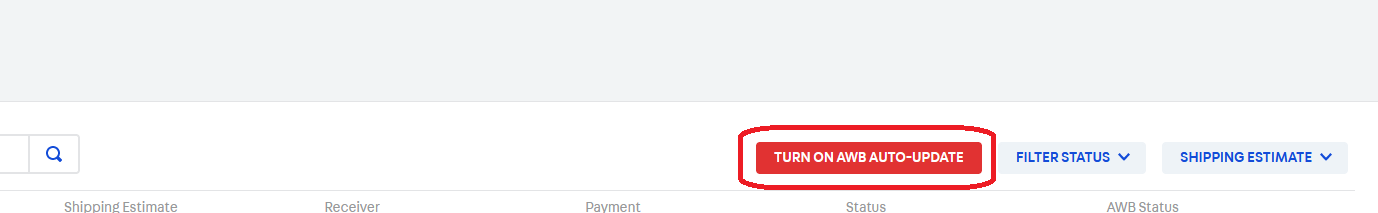
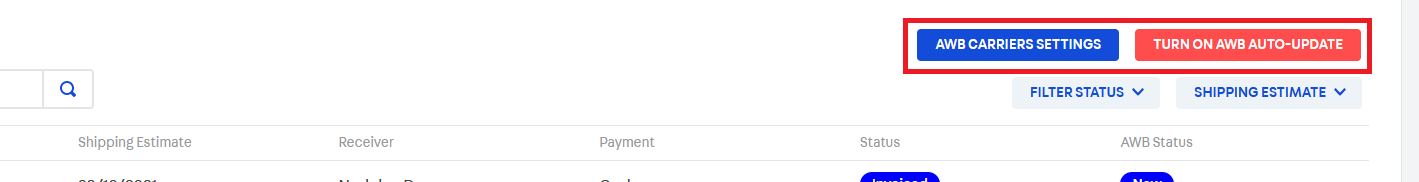
Added innoship setting page to select carriers available for automatic AWB update

diff --git a/docs/README.md b/docs/README.md
@@ -95,7 +95,8 @@ and under `Pickup points tags` select the `innoship pickup` tag.
 
 First make sure you set the correct `App Key` and `App Token` in the app setting.<br>
 Then turn on the `AWB AUTO-UPDATE` feature in the `Shipping` page.
-The update will run every 4 hours.
+The update will run every 4 hours.<br>
+You can configure which carriers will be included in this update by accessing the `AWB CARRIERS SETTINGS`.
 
 ![p5](assets/p5.PNG)
 
